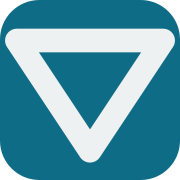
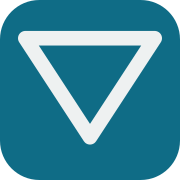
feat: ícone da guia mais fino e sem placa
Na fileira de guias o que se via era um quadrado azul, não o nabla. A
placa resolvia o contraste sem depender do tema, mas embrulhava o glifo
numa etiqueta. Sem ela o traço pode afinar, porque não precisa mais
vencer um fundo próprio: 4,2 -> 2,6 em 32 de viewBox, o mesmo peso do
glifo do cabeçalho (2 em 24).

Medido, não estimado: a 16px o traço antigo cobria 29,2% do quadro, o
novo cobre 18,6%, com o vazado aberto. Abaixo de ~2,2 a tinta cai para
perto dos 5% em que o glifo desaparece.

Sem placa o contraste depende da barra de guias, então a cor segue
prefers-color-scheme, com os tokens de destaque dos dois temas. É o
tema do sistema, não o do site: a guia é do navegador, não da página.

O favicon.ico foi regerado do SVG novo (16 e 32 dentro, transparente).
A placa sobreviveu em public/icone-app.svg, fonte dos ícones de tela
inicial: ali ela não é recurso de contraste, é que o iOS não respeita
transparência em apple-touch-icon e preenche de preto o que for vazado.

Changed region(s): [[0.0278, 0.1389, 0.9722, 0.9167], [0.2222, 0.25, 0.7778, 0.7222]]

diff --git a/public/LEIA-ME-icones.md b/public/LEIA-ME-icones.md
@@ -12,32 +12,51 @@
      ************************************************************************** -->
 # Ícones
 
-Gerados a partir de `favicon.svg`, que é a única fonte a editar:
+Duas fontes, e cada uma manda num conjunto de arquivos:
+
+- **`favicon.svg`** — a guia do navegador. Fundo transparente, traço fino.
+- **`icone-app.svg`** — a tela inicial do celular. Placa colorida, mesmo traço.
 
 ```bash
-for n in 16 32 180 192 512; do rsvg-convert -w $n -h $n public/favicon.svg -o /tmp/ico/$n.png; done
+mkdir -p /tmp/ico
+for n in 16 32; do rsvg-convert -w $n -h $n public/favicon.svg -o /tmp/ico/$n.png; done
+for n in 180 192 512; do rsvg-convert -w $n -h $n public/icone-app.svg -o /tmp/ico/$n.png; done
+magick /tmp/ico/16.png /tmp/ico/32.png public/favicon.ico
 cp /tmp/ico/180.png public/apple-touch-icon.png
 cp /tmp/ico/192.png public/icone-192.png
 cp /tmp/ico/512.png public/icone-512.png
-magick /tmp/ico/16.png /tmp/ico/32.png public/favicon.ico
 ```
 
-| arquivo | para quê |
-|---|---|
-| `favicon.svg` | a guia do navegador; escala em qualquer densidade de tela |
-| `favicon.ico` | reserva para navegador sem suporte a SVG (16 e 32px dentro) |
-| `apple-touch-icon.png` | quando alguém adiciona o site à tela inicial do iPhone |
-| `icone-192.png`, `icone-512.png` | mesma coisa no Android |
+| arquivo | vem de | para quê |
+|---|---|---|
+| `favicon.svg` | — | a guia do navegador; escala em qualquer densidade de tela |
+| `favicon.ico` | `favicon.svg` | reserva para navegador sem suporte a SVG (16 e 32px dentro) |
+| `icone-app.svg` | — | fonte dos três abaixo; não é referenciado por nenhuma página |
+| `apple-touch-icon.png` | `icone-app.svg` | quando alguém adiciona o site à tela inicial do iPhone |
+| `icone-192.png`, `icone-512.png` | `icone-app.svg` | mesma coisa no Android |
 
-## Duas decisões
+## Três decisões
 
-**O ∇ continua VAZADO, com traço grosso.** Maciço ele deixa de ser o
-operador nabla e passa a ler como uma seta para baixo — foi a primeira
-tentativa, e estava errada. O que resolve o tamanho pequeno não é preencher,
-é engrossar: traço de 4,2 (em 32 de viewBox) sobrevive a 16px e mantém o
-vazado.
+**O ∇ continua VAZADO.** Maciço ele deixa de ser o operador nabla e passa a
+ler como uma seta para baixo — foi a primeira tentativa, e estava errada.
 
-**A calibragem foi medida, não estimada.** A 16px, traço 2,4 deixa 5% de
-tinta e desaparece; traço 5 fecha o vazado e vira triângulo cheio. 4,2 dá 22%
-com o centro ainda aberto. A placa colorida resolve o contraste — funciona na
-barra clara e na escura, sem depender do tema.
+**A guia perdeu a placa, e o traço afinou para 2,6.** A placa colorida
+resolvia o contraste sem depender do tema, mas embrulhava o glifo numa
+etiqueta: na fileira de guias o que se via era um quadrado azul, não o nabla.
+Sem ela o traço pode afinar, porque não precisa mais vencer um fundo próprio —
+e 2,6 em 32 de viewBox é exatamente o peso do ∇ do cabeçalho (2 em 24), então
+a guia e a marca do site passaram a ser o mesmo desenho.
+
+Medido, não estimado: a 16px o traço antigo de 4,2 cobria 29,2% do quadro; o
+de 2,6 cobre 18,6%, com o vazado bem aberto. Abaixo de ~2,2 a tinta cai para
+perto dos 5% em que o glifo simplesmente desaparece.
+
+Sem placa, o contraste passa a depender da barra de guias, então a cor segue
+`prefers-color-scheme` — `#0f6c86` no claro, `#5cbdda` no escuro, os mesmos
+tokens de destaque dos dois temas. É o tema do **sistema**, não o do site: a
+guia é do navegador, não da página.
+
+**A placa sobreviveu só no ícone de aplicativo**, porque ali ela não é recurso
+de contraste: o iOS não respeita transparência em `apple-touch-icon` e
+preenche de preto o que for vazado. Em `icone-app.svg` o fundo é parte do
+ícone, e o ∇ fica recuado para não encostar no canto arredondado.

diff --git a/CHANGELOG.md b/CHANGELOG.md
@@ -21,6 +21,26 @@ A série **1.x** é o site original, "Responde Aí" — HTML/CSS/JS sem build. A
 novos. As `2.0.0-alpha.*` são as fases da migração, uma tag por fase; a `2.0.0`
 é a virada, quando o Nabla passou a ser o site no ar.
 
+## [2.1.1] — 2026-08-21
+
+### Alterado
+
+- **O ícone da guia perdeu a placa colorida e o traço afinou** de 4,2 para 2,6
+  (em 32 de viewBox). Na fileira de guias, o que se via antes era um quadrado
+  azul, não o nabla. Sem placa o traço pode afinar, porque não precisa mais
+  vencer um fundo próprio — e 2,6 é exatamente o peso do ∇ do cabeçalho
+  (2 em 24), então a guia e a marca do site passaram a ser o mesmo desenho.
+  A 16px o traço antigo cobria 29,2% do quadro; o novo cobre 18,6%, com o
+  vazado bem aberto.
+- Sem placa, o contraste passa a depender da barra de guias: a cor do ícone
+  agora segue `prefers-color-scheme` — o destaque do tema claro numa barra
+  clara, o do escuro numa escura. É o tema do **sistema**, não o do site: a
+  guia é do navegador, não da página.
+- `public/icone-app.svg` passa a ser a fonte dos ícones de tela inicial, e é o
+  único lugar onde a placa sobreviveu — ali ela não é recurso de contraste: o
+  iOS não respeita transparência em `apple-touch-icon` e preenche de preto o
+  que for vazado. O ∇ deles também afinou.
+
 ## [2.1.0] — 2026-08-21
 
 **A grade de Automação.** A segunda grade do site — e a primeira montada a
@@ -488,6 +508,7 @@ julho de 2026, antes da adoção de changelog.
   ao topo, tema claro/escuro.
 - Fórmulas em MathJax (tex-svg) e cache-busting manual por `?v=N` nos assets.
 
+[2.1.1]: https://github.com/ArthurrAzeved0/nabla/releases/tag/v2.1.1
 [2.1.0]: https://github.com/ArthurrAzeved0/nabla/releases/tag/v2.1.0
 [2.0.0]: https://github.com/ArthurrAzeved0/nabla/releases/tag/v2.0.0
 [2.0.0-alpha.7]: https://github.com/ArthurrAzeved0/nabla/releases/tag/v2.0.0-alpha.7
